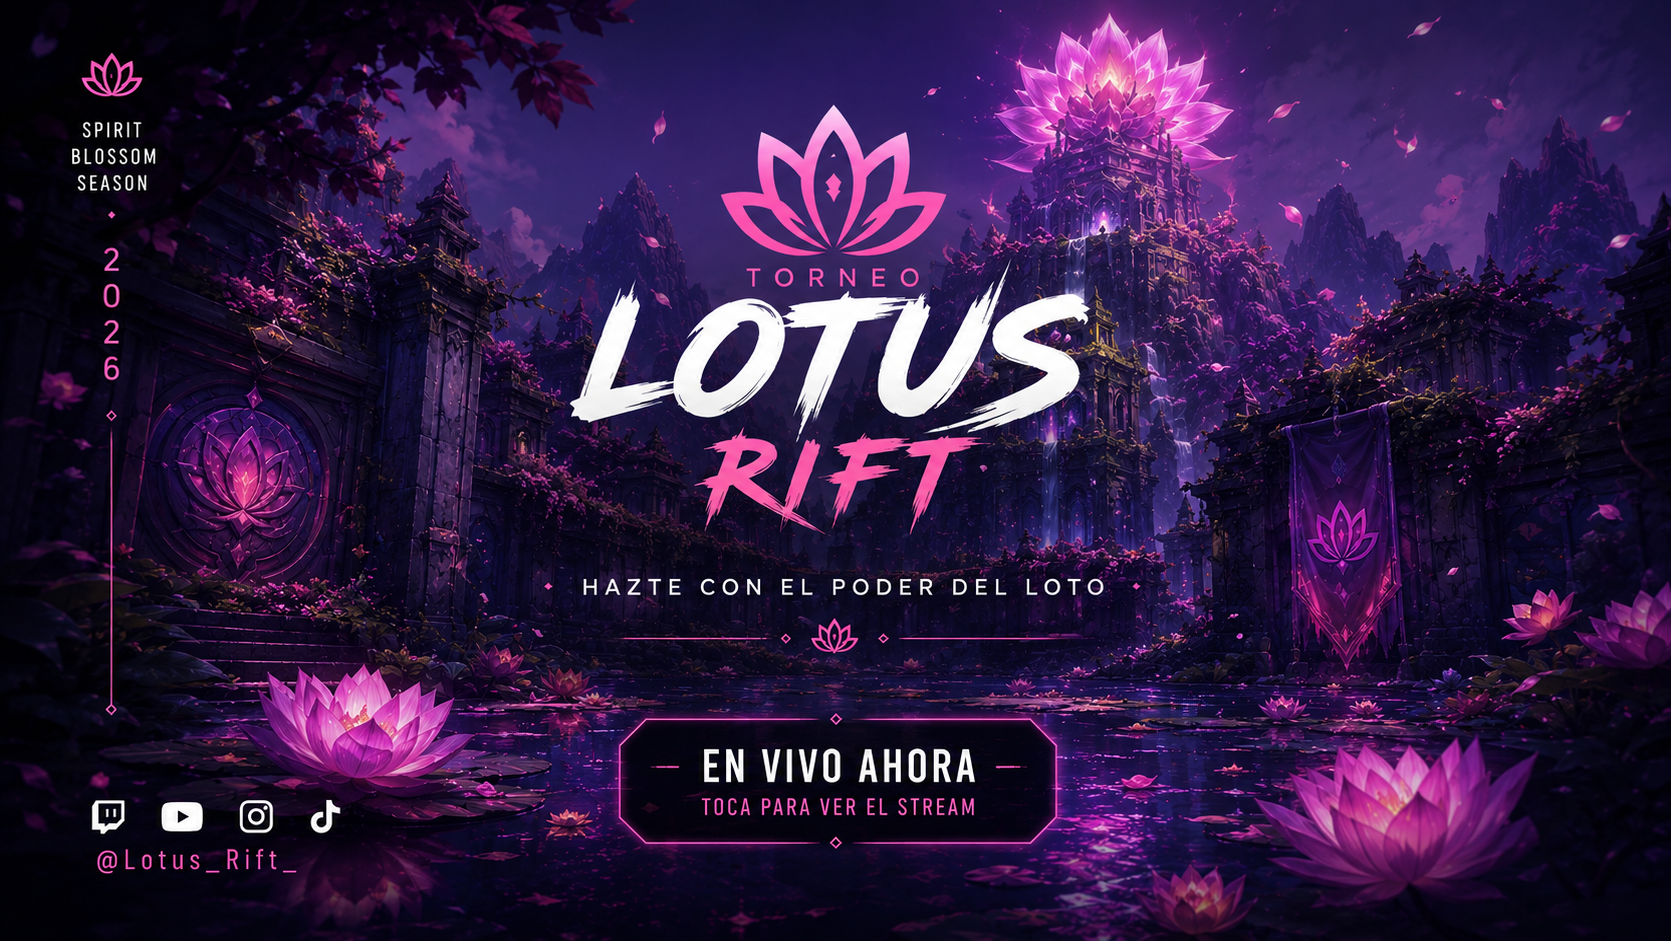
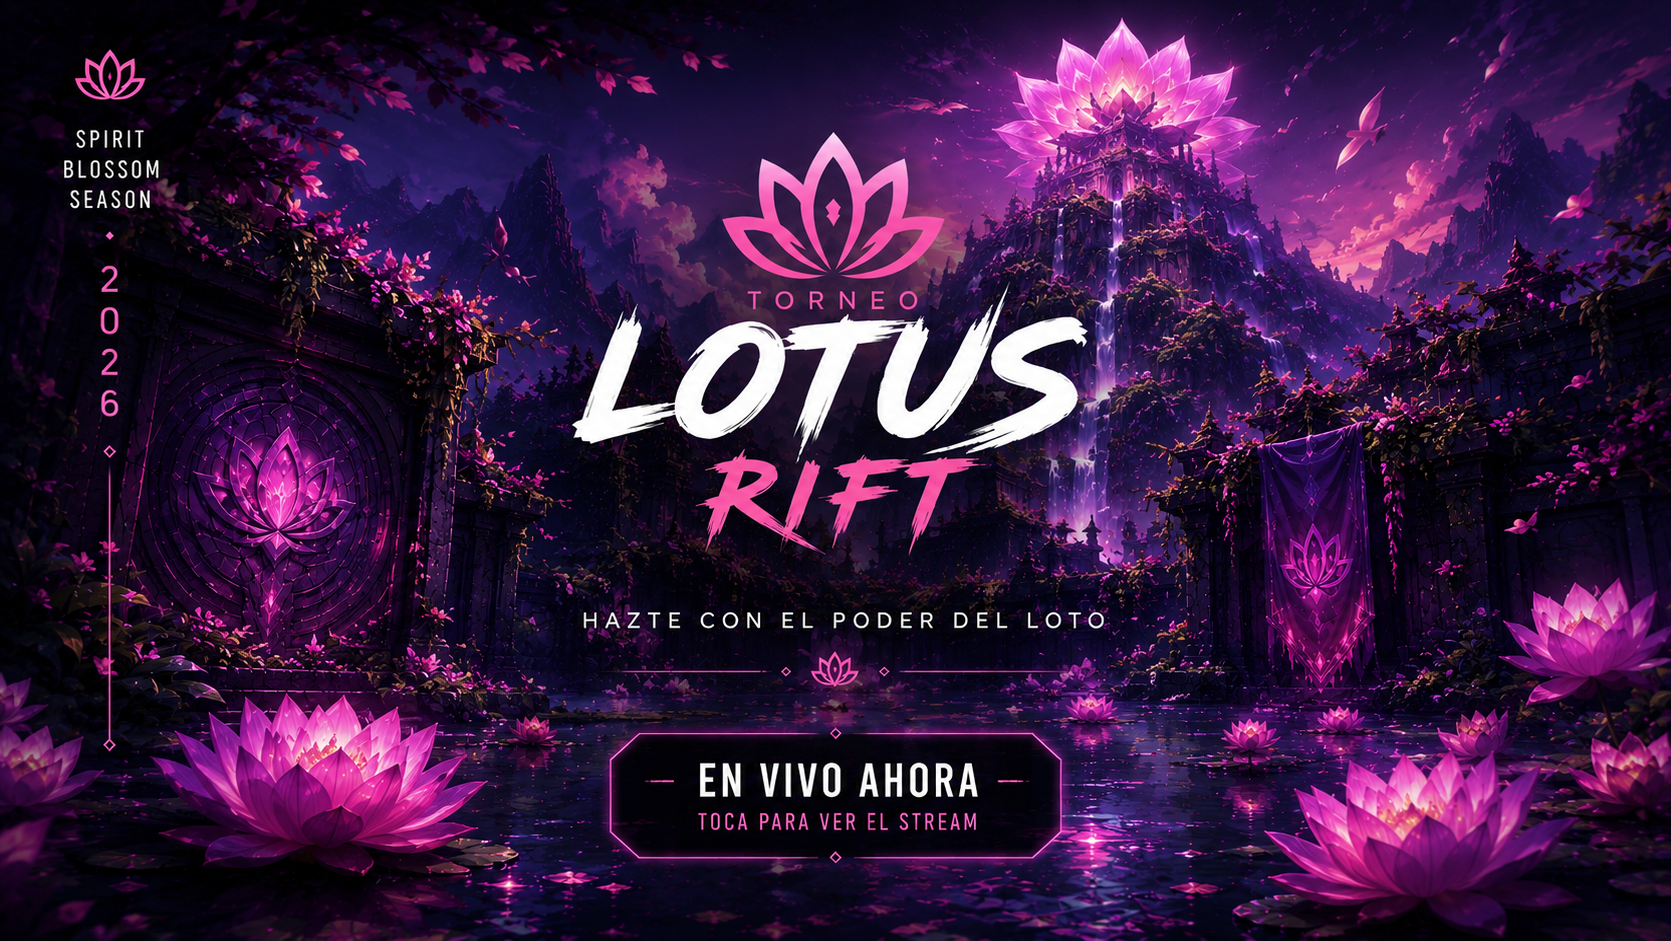
XD

diff --git a/app/brackets/page.js b/app/brackets/page.js
@@ -274,15 +274,6 @@ export default function LotusRift() {
             className="relative"
           >
 
-            <div className="absolute inset-0 bg-pink-500/30 blur-[140px] rounded-full" />
-
-            <img
-              src="/lotus-logo.png"
-              alt="Lotus Rift"
-              className="relative z-10 w-full max-w-[600px] mx-auto opacity-95"
-            />
-          </motion.div>
-
         </div>
       </section>
 